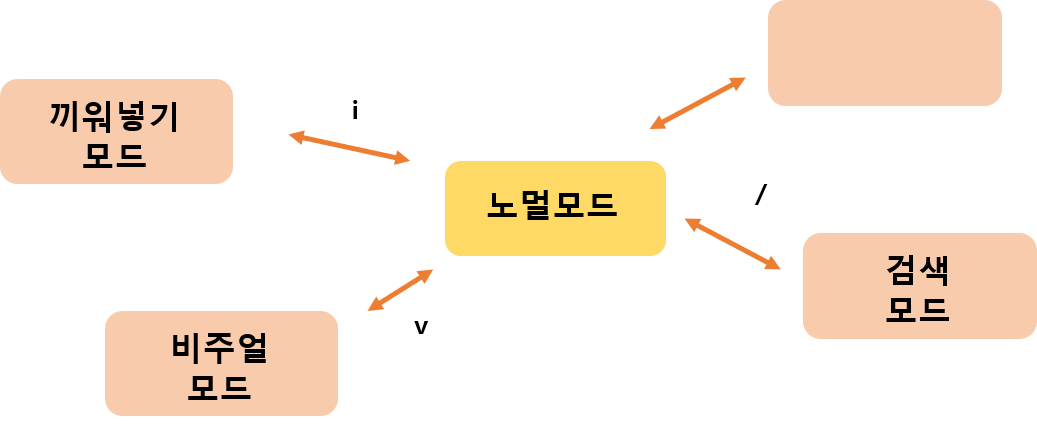
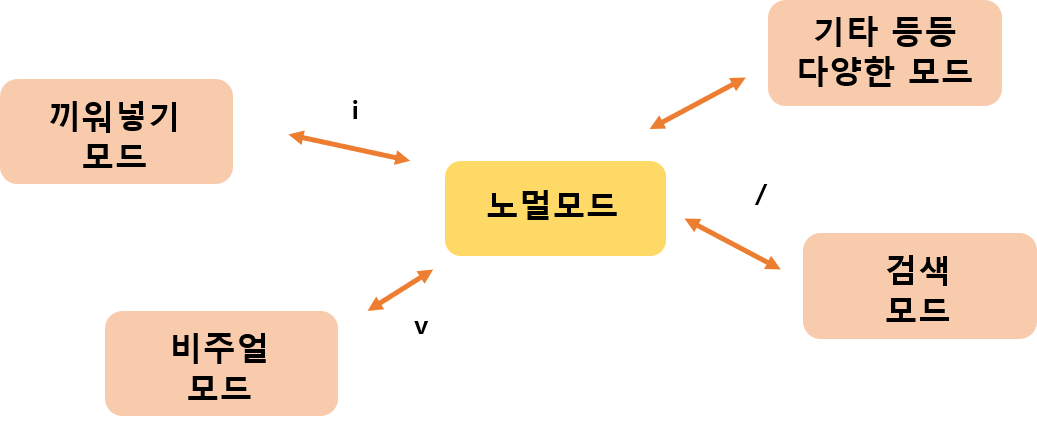
모드전환 이미지 수정

Changed region(s): [[0.7715, 0.0304, 0.9566, 0.2126]]

diff --git a/naeun/2021-02-04-리눅스기반 CLI 기본 사용법과 개념.md b/naeun/2021-02-04-리눅스기반 CLI 기본 사용법과 개념.md
@@ -10,7 +10,7 @@ vim는 CLI에서 사용할 수 있는 텍스트 에디터이다. vi과 호환되
 
 vim 편집은 모드전환을 통해 진행된다.
 
-![모드전환](https://s3.us-west-2.amazonaws.com/secure.notion-static.com/7df03cdf-74dc-4bf3-88ea-9f09cb1f57e8/cli-1_.png?X-Amz-Algorithm=AWS4-HMAC-SHA256&X-Amz-Credential=AKIAT73L2G45O3KS52Y5%2F20210204%2Fus-west-2%2Fs3%2Faws4_request&X-Amz-Date=20210204T005934Z&X-Amz-Expires=86400&X-Amz-Signature=9c1f6d524563d04ab2b0992f4f59f5b0184543385c54d2d46fcffeeb71422a5e&X-Amz-SignedHeaders=host&response-content-disposition=filename%20%3D%22cli-1_.png%22)
+![모드전환](https://s3.us-west-2.amazonaws.com/secure.notion-static.com/34f72c1f-1ab2-4da6-8b45-9f05bafe2217/cli-1_.png?X-Amz-Algorithm=AWS4-HMAC-SHA256&X-Amz-Credential=AKIAT73L2G45O3KS52Y5%2F20210204%2Fus-west-2%2Fs3%2Faws4_request&X-Amz-Date=20210204T123529Z&X-Amz-Expires=86400&X-Amz-Signature=e24e57c60b5c55063237ca2053774523acd0763f6525cdf11a4f908ae326b4d3&X-Amz-SignedHeaders=host&response-content-disposition=filename%20%3D%22cli-1_.png%22)
 
 - `i` : 끼워넣기 모드 전환
 - `esc` : 노멀모드로 전환
